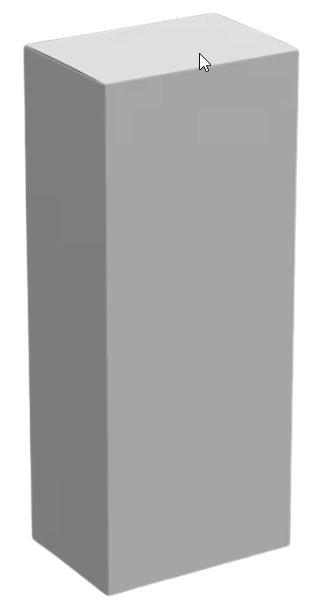
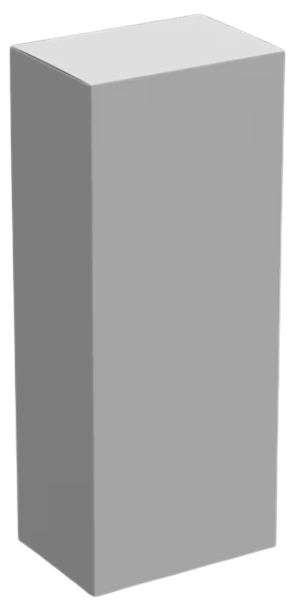
fit: add simple tall box

diff --git a/app/ui/packaging/layouts/box-simple-tall-layout.tsx b/app/ui/packaging/layouts/box-simple-tall-layout.tsx
@@ -21,18 +21,18 @@ export default function BoxSimpleTallLayout({ model, baseColor, size }: Props) {
             "w-full border-b border-b-main-gray pb-2 text-2xl/none font-bold"
           }
         >
-          Top:
+          Full:
         </h1>
         <div className={"flex w-full items-center justify-center gap-1"}>
           <div className={"flex w-fit flex-col gap-1"}>
             <div
               style={{
                 width: `${depth}px`,
-                height: `${depth}px`,
+                height: `${width / 2}px`,
                 backgroundColor: GetHSV([
                   baseColor[0],
                   baseColor[1],
-                  baseColor[2] - 5,
+                  baseColor[2] - 2,
                 ]),
               }}
             />
@@ -50,11 +50,11 @@ export default function BoxSimpleTallLayout({ model, baseColor, size }: Props) {
             <div
               style={{
                 width: `${depth}px`,
-                height: `${depth}px`,
+                height: `${width / 2}px`,
                 backgroundColor: GetHSV([
                   baseColor[0],
                   baseColor[1],
-                  baseColor[2] - 5,
+                  baseColor[2] - 2,
                 ]),
               }}
             />
@@ -63,11 +63,22 @@ export default function BoxSimpleTallLayout({ model, baseColor, size }: Props) {
             <div
               style={{
                 width: `${width}px`,
+                height: `${depth / 3}px`,
+                backgroundColor: GetHSV([
+                  baseColor[0],
+                  baseColor[1],
+                  baseColor[2] - 2,
+                ]),
+              }}
+            />
+            <div
+              style={{
+                width: `${width}px`,
                 height: `${depth}px`,
                 backgroundColor: GetHSV([
                   baseColor[0],
                   baseColor[1],
-                  baseColor[2] - 5,
+                  baseColor[2] - 2,
                 ]),
               }}
             />
@@ -75,18 +86,25 @@ export default function BoxSimpleTallLayout({ model, baseColor, size }: Props) {
               style={{
                 width: `${width}px`,
                 height: `${height}px`,
-                backgroundColor: GetHSV(baseColor),
+                backgroundColor: GetHSV([
+                  baseColor[0],
+                  baseColor[1],
+                  baseColor[2] - 2,
+                ]),
+              }}
+            />
+            <div
+              style={{
+                width: `${width}px`,
+                height: `${depth / 3}px`,
+                backgroundColor: "transparent",
               }}
             />
             <div
               style={{
                 width: `${width}px`,
                 height: `${depth}px`,
-                backgroundColor: GetHSV([
-                  baseColor[0],
-                  baseColor[1],
-                  baseColor[2] - 5,
-                ]),
+                backgroundColor: "transparent",
               }}
             />
           </div>
@@ -94,11 +112,11 @@ export default function BoxSimpleTallLayout({ model, baseColor, size }: Props) {
             <div
               style={{
                 width: `${depth}px`,
-                height: `${depth}px`,
+                height: `${width / 2}px`,
                 backgroundColor: GetHSV([
                   baseColor[0],
                   baseColor[1],
-                  baseColor[2] - 5,
+                  baseColor[2] - 2,
                 ]),
               }}
             />
@@ -116,58 +134,11 @@ export default function BoxSimpleTallLayout({ model, baseColor, size }: Props) {
             <div
               style={{
                 width: `${depth}px`,
-                height: `${depth}px`,
+                height: `${width / 2}px`,
                 backgroundColor: GetHSV([
                   baseColor[0],
                   baseColor[1],
-                  baseColor[2] - 5,
-                ]),
-              }}
-            />
-          </div>
-        </div>
-      </div>
-
-      <div className={"flex w-full flex-col gap-6"}>
-        <h1
-          className={
-            "w-full border-b border-b-main-gray pb-2 text-2xl/none font-bold"
-          }
-        >
-          Bottom:
-        </h1>
-        <div className={"flex w-full items-center justify-center gap-1"}>
-          <div className={"flex w-fit flex-col gap-1"}>
-            <div
-              style={{
-                width: `${depth}px`,
-                height: `${depth}px`,
-                backgroundColor: GetHSV([
-                  baseColor[0],
-                  baseColor[1],
-                  baseColor[2] + 5,
-                ]),
-              }}
-            />
-            <div
-              style={{
-                width: `${depth}px`,
-                height: `${height}px`,
-                backgroundColor: GetHSV([
-                  baseColor[0],
-                  baseColor[1],
-                  baseColor[2] + 2,
-                ]),
-              }}
-            />
-            <div
-              style={{
-                width: `${depth}px`,
-                height: `${depth}px`,
-                backgroundColor: GetHSV([
-                  baseColor[0],
-                  baseColor[1],
-                  baseColor[2] + 5,
+                  baseColor[2] - 2,
                 ]),
               }}
             />
@@ -180,7 +151,7 @@ export default function BoxSimpleTallLayout({ model, baseColor, size }: Props) {
                 backgroundColor: GetHSV([
                   baseColor[0],
                   baseColor[1],
-                  baseColor[2] + 5,
+                  baseColor[2] - 2,
                 ]),
               }}
             />
@@ -188,53 +159,18 @@ export default function BoxSimpleTallLayout({ model, baseColor, size }: Props) {
               style={{
                 width: `${width}px`,
                 height: `${height}px`,
-                backgroundColor: GetHSV(baseColor),
+                backgroundColor: GetHSV([
+                  baseColor[0],
+                  baseColor[1],
+                  baseColor[2] - 2,
+                ]),
               }}
             />
             <div
               style={{
                 width: `${width}px`,
                 height: `${depth}px`,
-                backgroundColor: GetHSV([
-                  baseColor[0],
-                  baseColor[1],
-                  baseColor[2] + 5,
-                ]),
-              }}
-            />
-          </div>
-          <div className={"flex w-fit flex-col gap-1"}>
-            <div
-              style={{
-                width: `${depth}px`,
-                height: `${depth}px`,
-                backgroundColor: GetHSV([
-                  baseColor[0],
-                  baseColor[1],
-                  baseColor[2] + 5,
-                ]),
-              }}
-            />
-            <div
-              style={{
-                width: `${depth}px`,
-                height: `${height}px`,
-                backgroundColor: GetHSV([
-                  baseColor[0],
-                  baseColor[1],
-                  baseColor[2] + 2,
-                ]),
-              }}
-            />
-            <div
-              style={{
-                width: `${depth}px`,
-                height: `${depth}px`,
-                backgroundColor: GetHSV([
-                  baseColor[0],
-                  baseColor[1],
-                  baseColor[2] + 5,
-                ]),
+                backgroundColor: "transparent",
               }}
             />
           </div>

diff --git a/app/ui/packaging/models/box-simple-tall-model.tsx b/app/ui/packaging/models/box-simple-tall-model.tsx
@@ -36,15 +36,55 @@ export default function BoxSimpleTallModel({
       useRef(null),
       useRef(null),
       useRef(null),
+      useRef(null),
     ],
   };
 
-  useEffect(() => {}, [step]);
+  useEffect(() => {
+    const obj3 = meshRefs[3];
+    const obj5 = meshRefs[5];
+    const obj1 = meshRefs[1];
+    const obj2 = meshRefs[2];
+
+    if (step <= 5) {
+      //@ts-ignore
+      obj3.current.rotation.z = (step * Math.PI) / 2 / 5;
+      //@ts-ignore
+      obj3.current.position.x = -(step * width) / 2 / 5;
+      //@ts-ignore
+      obj3.current.position.y = height + (step * width) / 2 / 5;
+    }
+
+    if (step > 5 && step <= 11) {
+      //@ts-ignore
+      obj5.current.rotation.y = Math.PI / 2 + ((step - 6) * Math.PI) / 2 / 5;
+      //@ts-ignore
+      obj5.current.position.y = -width / 6 + ((step - 6) * width) / 6 / 5;
+      //@ts-ignore
+      obj5.current.position.x = width / 2 + ((step - 6) * width) / 6 / 5;
+    }
+
+    if (step > 11 && step <= 17) {
+      //@ts-ignore
+      obj1.current.rotation.x = Math.PI / 2 + ((step - 12) * Math.PI) / 2 / 5;
+      //@ts-ignore
+      obj1.current.position.y = height + ((step - 12) * depth) / 4 / 5;
+      //@ts-ignore
+      obj1.current.position.z = depth / 4 + ((step - 12) * depth) / 4 / 5;
+
+      //@ts-ignore
+      obj2.current.rotation.x = -Math.PI / 2 - ((step - 12) * Math.PI) / 2 / 5;
+      //@ts-ignore
+      obj2.current.position.y = height + ((step - 12) * depth) / 4 / 5;
+      //@ts-ignore
+      obj2.current.position.z = -depth / 4 - ((step - 12) * depth) / 4 / 5;
+    }
+  }, [step]);
 
   return (
     <group position={[0, 0, 0]}>
-      {/*bottom*/}
       <group>
+        {/*bottom*/}
         <Side
           meshRef={meshRefs[0] ?? null}
           width={width}
@@ -54,9 +94,52 @@ export default function BoxSimpleTallModel({
           color={GetHSV([baseColor[0], baseColor[1], baseColor[2]])}
         />
 
+        {/*top*/}
+        <group position={[0, 0, 0]}>
+          <Side
+            meshRef={meshRefs[1] ?? null}
+            width={width}
+            height={depth / 2}
+            position={[0, height, depth / 4]}
+            rotation={[Math.PI / 2, 0, 0]}
+            color={GetHSV([baseColor[0], baseColor[1], baseColor[2]])}
+          />
+          <Side
+            meshRef={meshRefs[2] ?? null}
+            width={width}
+            height={depth / 2}
+            position={[0, height, -depth / 4]}
+            rotation={[-Math.PI / 2, 0, 0]}
+            color={GetHSV([baseColor[0], baseColor[1], baseColor[2]])}
+          />
+          <group
+            position={[0, height + 0.01, 0]}
+            ref={meshRefs[3] ?? null}
+            rotation={[0, 0, 0]}
+          >
+            <Side
+              meshRef={meshRefs[4] ?? null}
+              width={width}
+              height={depth}
+              position={[0, 0, 0]}
+              rotation={[Math.PI / 2, 0, 0]}
+              color={GetHSV([baseColor[0], baseColor[1], baseColor[2] + 5])}
+            />
+            <Side
+              meshRef={meshRefs[5] ?? null}
+              width={width / 3}
+              height={depth}
+              position={[depth / 2, -width / 3 / 2, 0]}
+              rotation={[Math.PI / 2, Math.PI / 2, 0]}
+              color={GetHSV([baseColor[0], baseColor[1], baseColor[2] + 2])}
+            />
+          </group>
+        </group>
+
+        {/*side*/}
         <group position={[0, 0, 0]} rotation={[0, 0, 0]}>
           <Side
-            meshRef={meshRefs[4] ?? null}
+            meshRef={meshRefs[6] ?? null}
             width={height}
             height={depth}
             position={[width / 2, height / 2, 0]}
@@ -65,7 +148,7 @@ export default function BoxSimpleTallModel({
             color={GetHSV([baseColor[0], baseColor[1], baseColor[2] + 2])}
           />
           <Side
-            meshRef={meshRefs[5] ?? null}
+            meshRef={meshRefs[7] ?? null}
             width={width}
             height={height}
             position={[0, height / 2, depth / 2]}
@@ -74,7 +157,7 @@ export default function BoxSimpleTallModel({
             color={GetHSV([baseColor[0], baseColor[1], baseColor[2] + 5])}
           />
           <Side
-            meshRef={meshRefs[5] ?? null}
+            meshRef={meshRefs[8] ?? null}
             width={width}
             height={height}
             position={[0, height / 2, -depth / 2]}
@@ -83,7 +166,7 @@ export default function BoxSimpleTallModel({
             color={GetHSV([baseColor[0], baseColor[1], baseColor[2] + 5])}
           />
           <Side
-            meshRef={meshRefs[4] ?? null}
+            meshRef={meshRefs[9] ?? null}
             width={height}
             height={depth}
             position={[-width / 2, height / 2, 0]}

diff --git a/app/lib/3d.ts b/app/lib/3d.ts
@@ -139,7 +139,7 @@ export const DefaultModelItems: Model[] = [
     description:
       "Simplify your storage and shipping with our sturdy cardboard box. Durable, versatile, and eco-friendly, it’s perfect for all your packing needs. Reliable protection for your items every time!",
     badges: ["cardboard", "custom size"],
-    sizes: [1, 3, 1],
+    sizes: [1, 2, 3],
     baseColor: [34, 23, 60],
   },
   {

diff --git a/app/ui/packaging/editor-3d/content.tsx b/app/ui/packaging/editor-3d/content.tsx
@@ -122,9 +122,9 @@ export default function Content({
           <BoxSimpleTallModel
             step={currentStep}
             totalSteps={currentModel.totalSteps}
-            width={size[0]}
+            width={size[2]}
             height={size[1]}
-            depth={size[2]}
+            depth={size[0]}
             baseColor={baseColor}
           />
         );
